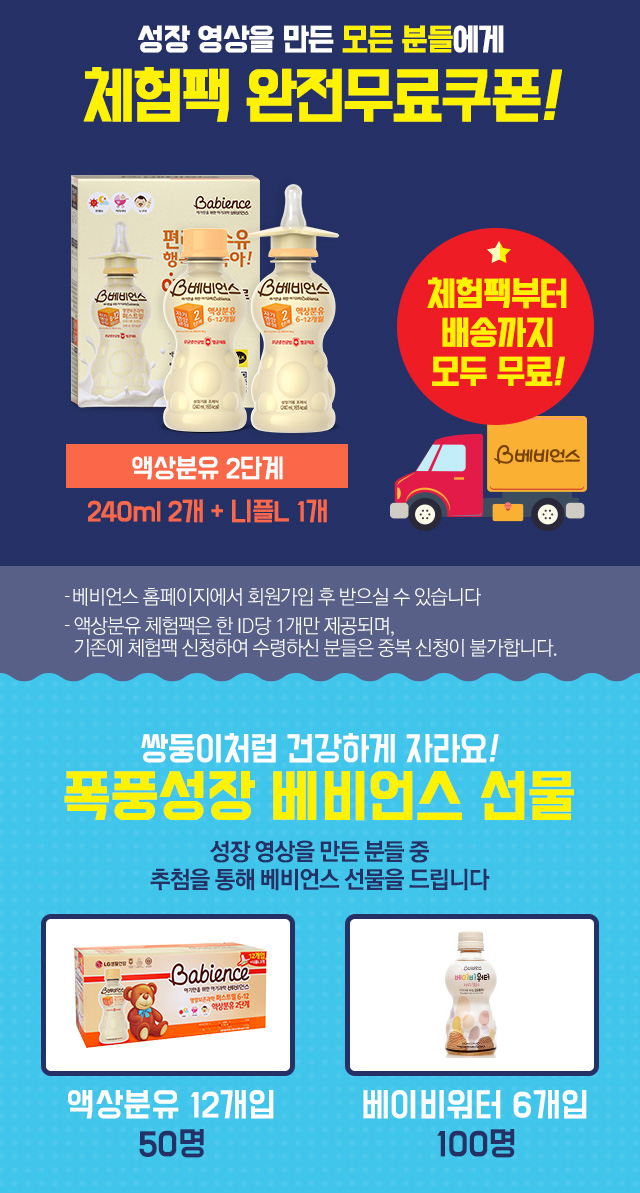
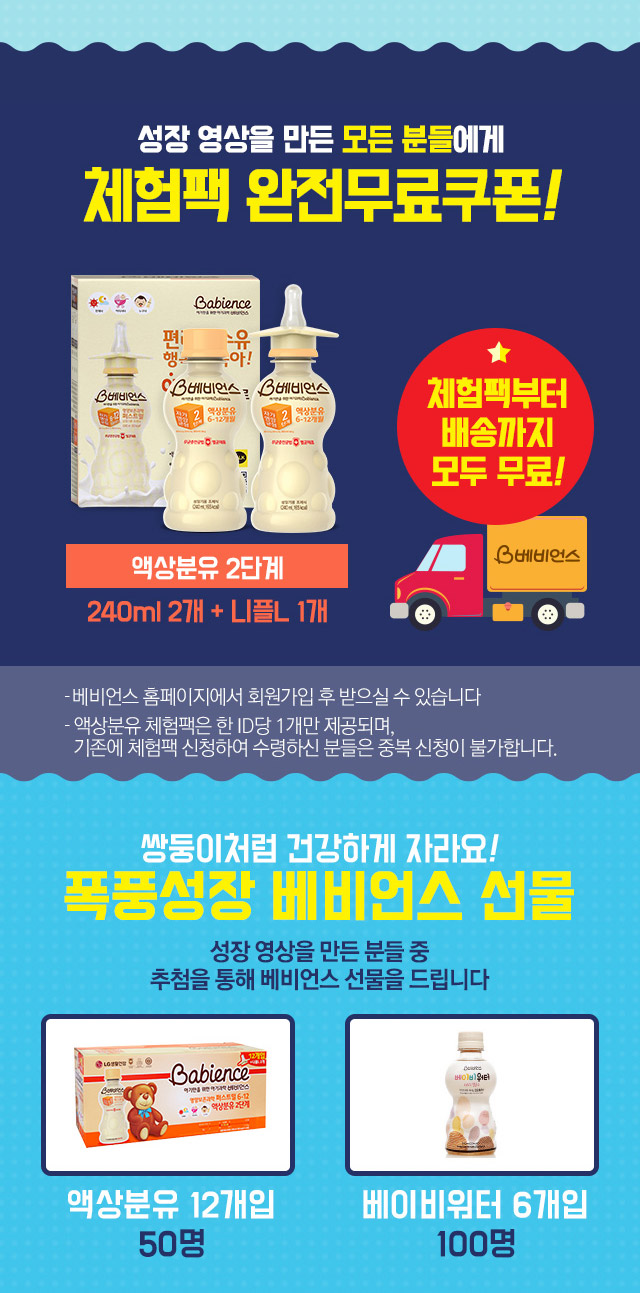
메인 코딩 수정

diff --git a/MOBILE/m_index.html b/MOBILE/m_index.html
@@ -21,18 +21,13 @@ initial-scale=1.0, maximum-scale=3.0"/>
     </div>
  	<div class="sec_top_visual">
     	<div class="inner_sec_top img">
-	        <img src="images/img_sec_top_visual.jpg" />
+        	<div class="img btn_make"><a href="#"><img src="images/btn_make.png" /></a></div>
+            <div class="img"><img src="images/img_sec_top_visual.jpg" /></div>
         </div>
     </div>
      <div class="sec_movie">
     	<div class="inner_sec_movie">
 	        유튜브영상 영역
-        </div>
-     </div>
-     <div class="sec_btn">
-    	<div class="inner_sec_btn">
-	        <div class="img btn_make"><a href="#"><img src="images/btn_make.png" /></a></div>
-            <div class="img"><img src="images/bg_btn.jpg" /></div>
         </div>
      </div>
      <div class="sec_gift">

diff --git a/MOBILE/css/style.css b/MOBILE/css/style.css
@@ -69,9 +69,9 @@ body{
 	background:#263264;
 	position:relative;
 }
-.sec_btn .btn_make{
+.sec_top_visual .btn_make{
 	position:absolute;
-	top:20%;
+	top:55%;
 }
 .sec_gift{
 	background:#48c5e9;
